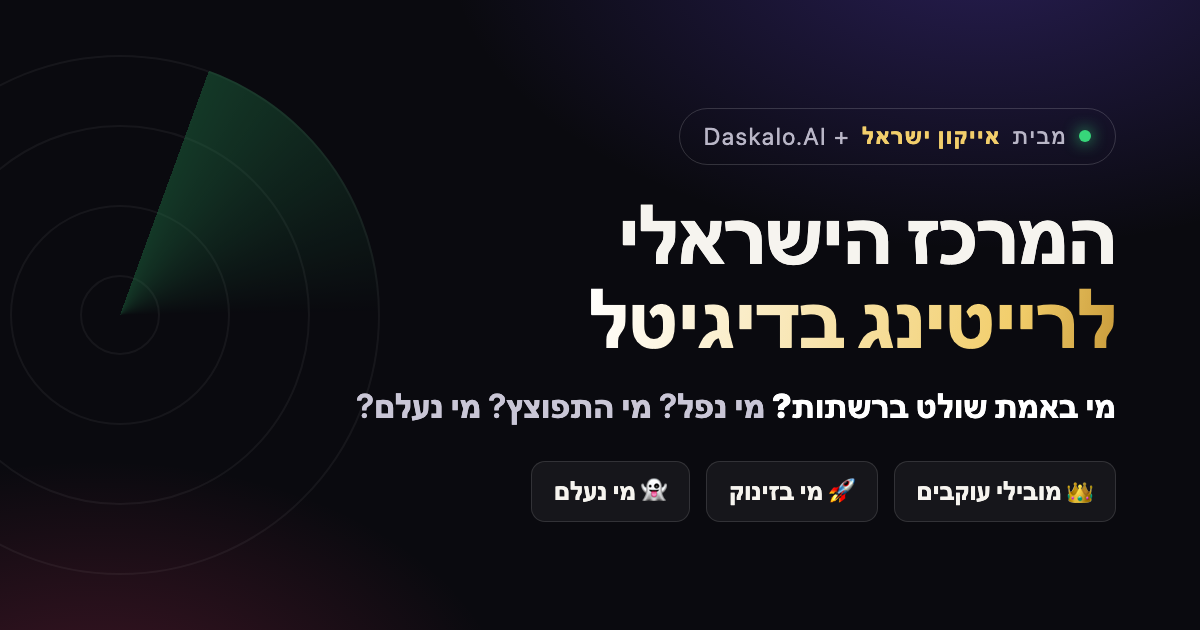
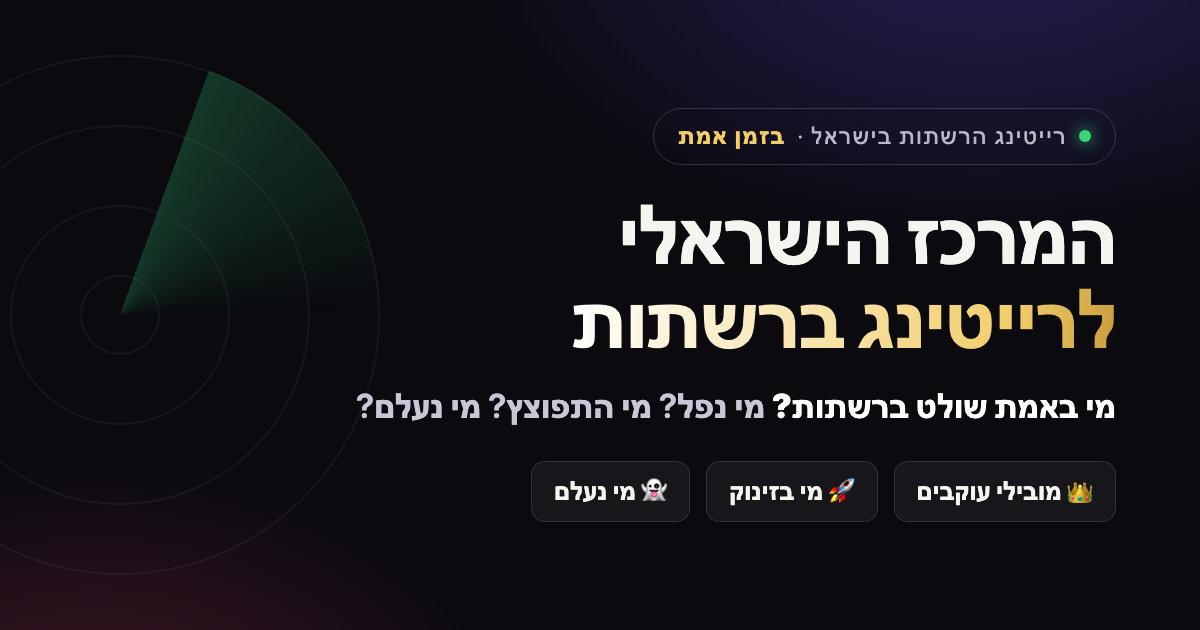
Remove branding credit, simplify billboard compare button, update OG

Changed region(s): [[0.4625, 0.4524, 0.6783, 0.573], [0.555, 0.181, 0.8942, 0.2413]]

diff --git a/index.html b/index.html
@@ -4,7 +4,7 @@
 <meta charset="utf-8">
 <meta name="viewport" content="width=device-width, initial-scale=1, viewport-fit=cover">
 <title>המרכז הישראלי לרייטינג בדיגיטל</title>
-<meta name="description" content="מי באמת שולט ברשתות? מי נפל? מי התפוצץ? מי נעלם? בחרו זירה וקבלו את כל המידע הכי חם ברשת — בלייב! מבית אייקון ישראל + Daskalo.AI">
+<meta name="description" content="מי באמת שולט ברשתות? מי נפל? מי התפוצץ? מי נעלם? הרייטינג החם של הרשתות בישראל — בזמן אמת.">
 <link rel="icon" type="image/svg+xml" href="favicon.svg">
 <link rel="alternate icon" type="image/png" href="favicon-32.png">
 <link rel="apple-touch-icon" href="apple-touch-icon.png">
@@ -12,7 +12,7 @@
 <meta property="og:type" content="website">
 <meta property="og:site_name" content="המרכז הישראלי לרייטינג בדיגיטל">
 <meta property="og:title" content="המרכז הישראלי לרייטינג בדיגיטל">
-<meta property="og:description" content="מי באמת שולט ברשתות? מי נפל? מי התפוצץ? מי נעלם? בחרו זירה וקבלו את כל המידע הכי חם ברשת — בלייב! מבית אייקון ישראל + Daskalo.AI">
+<meta property="og:description" content="מי באמת שולט ברשתות? מי נפל? מי התפוצץ? מי נעלם? הרייטינג החם של הרשתות בישראל — בזמן אמת.">
 <meta property="og:url" content="https://bendaskalo.github.io/daskalo-radar/">
 <meta property="og:image" content="https://bendaskalo.github.io/daskalo-radar/og.png">
 <meta property="og:image:secure_url" content="https://bendaskalo.github.io/daskalo-radar/og.png">
@@ -22,7 +22,7 @@
 <meta property="og:locale" content="he_IL">
 <meta name="twitter:card" content="summary_large_image">
 <meta name="twitter:title" content="המרכז הישראלי לרייטינג בדיגיטל">
-<meta name="twitter:description" content="מי באמת שולט ברשתות? מי נפל? מי התפוצץ? מי נעלם? בחרו זירה וקבלו את כל המידע הכי חם ברשת — בלייב! מבית אייקון ישראל + Daskalo.AI">
+<meta name="twitter:description" content="מי באמת שולט ברשתות? מי נפל? מי התפוצץ? מי נעלם? הרייטינג החם של הרשתות בישראל — בזמן אמת.">
 <meta name="twitter:image" content="https://bendaskalo.github.io/daskalo-radar/og.png">
 <style>*{margin:0}html,body{background:#0A0A0F}</style>
 </head>
@@ -197,7 +197,7 @@
         <path d="M14 30 L12 17 L19 22 L24 12 L29 22 L36 17 L34 30 Z" fill="#EBC868"/>
         <rect x="14" y="31" width="20" height="4" rx="1.5" fill="#EBC868"/>
       </svg>
-      <div class="brand"><span class="t">המרכז הישראלי לרייטינג ברשתות</span><span class="s">מבית אייקון ישראל + Daskalo.AI</span></div>
+      <div class="brand"><span class="t">המרכז הישראלי לרייטינג ברשתות</span><span class="s">רייטינג הרשתות בישראל · בזמן אמת</span></div>
       <div class="sp"></div>
       <button class="cmp" id="openCmp">⚔ <span>בנה השוואה</span></button>
     </div></nav>
@@ -205,7 +205,7 @@
     <div id="homeBody"></div>
 
     <div class="wrap foot">
-      <div><span class="wm">המרכז הישראלי לרייטינג ברשתות</span> · מבית אייקון ישראל + Daskalo.AI</div>
+      <div><span class="wm">המרכז הישראלי לרייטינג ברשתות</span></div>
       <div class="fn">נתוני עוקבים ולייקים חיים מאינסטגרם. מדד ה"חום" מבוסס על מגמת הלייקים בפוסטים האחרונים (מעורבות), לא על שינוי עוקבים. השוואות מוצגות למטרות מידע ובידור.</div>
     </div>
   </div>
@@ -272,7 +272,7 @@
         <div class="c"><span class="tag">🔴 בלייב · ${ANALYSIS.asOf||""}</span>
         <h1>${esc(lead.n)}${vb(lead.v)}</h1>
         <div class="meta"><span><b>${fmt(lead.f)}</b> עוקבים</span><span>${GRP[lead.grp]?.ic||""} ${GRP[lead.grp]?.he||""}</span><span>👑 מוביל הרייטינג</span></div>
-        <div class="btns"><button class="play" onclick="Radar.compareWith('${lead.h}')">⚔ השווה אותו</button><button class="more" onclick="Radar.openCmp()">בנה השוואה משלך</button></div>
+        <div class="btns"><button class="play" onclick="Radar.compareWith('${lead.h}')">⚔ השווה את ${esc(lead.n)}</button></div>
         </div></div>`;
 
       H+='<div class="wrap">';
@@ -405,7 +405,7 @@
 <div class="a11y-modal" id="a11yModal" role="dialog" aria-modal="true" aria-label="הצהרת נגישות">
   <div class="box"><button class="x" id="a11yModalX" aria-label="סגירה">✕</button>
     <h3>הצהרת נגישות</h3>
-    <p>"המרכז הישראלי לרייטינג ברשתות" (מבית אייקון ישראל + Daskalo.AI) רואה חשיבות רבה במתן שירות שוויוני, ופועל להנגשת האתר בהתאם ל<b>תקנות שוויון זכויות לאנשים עם מוגבלות (התאמות נגישות לשירות), התשע"ג-2013</b> ולתקן הישראלי <b>ת"י 5568</b> ברמת AA (WCAG 2.0).</p>
+    <p>אתר "המרכז הישראלי לרייטינג ברשתות" רואה חשיבות רבה במתן שירות שוויוני, ופועל להנגשת האתר בהתאם ל<b>תקנות שוויון זכויות לאנשים עם מוגבלות (התאמות נגישות לשירות), התשע"ג-2013</b> ולתקן הישראלי <b>ת"י 5568</b> ברמת AA (WCAG 2.0).</p>
     <p><b>מה הונגש:</b> תפריט נגישות (הגדלת טקסט, ניגודיות, גווני אפור, הדגשת קישורים, גופן קריא, עצירת אנימציות, סמן גדול), מבנה סמנטי, ניווט מקלדת, סימון פוקוס, טקסט חלופי לתמונות ותמיכה ב-RTL.</p>
     <p><b>מגבלות ידועות:</b> ייתכנו רכיבים שטרם הונגשו במלואם; אנו פועלים לשיפור מתמיד.</p>
     <p><b>פניות בנושא נגישות:</b> רכז הנגישות — בן דסקלו · <a href="mailto:ben@b-films.co.il">ben@b-films.co.il</a>.</p>
